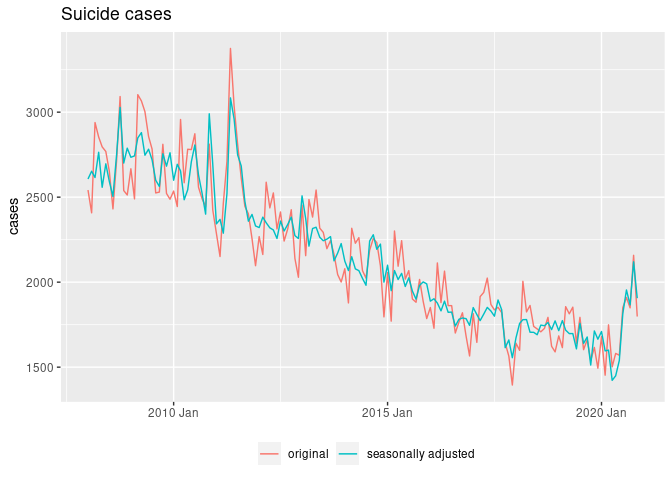
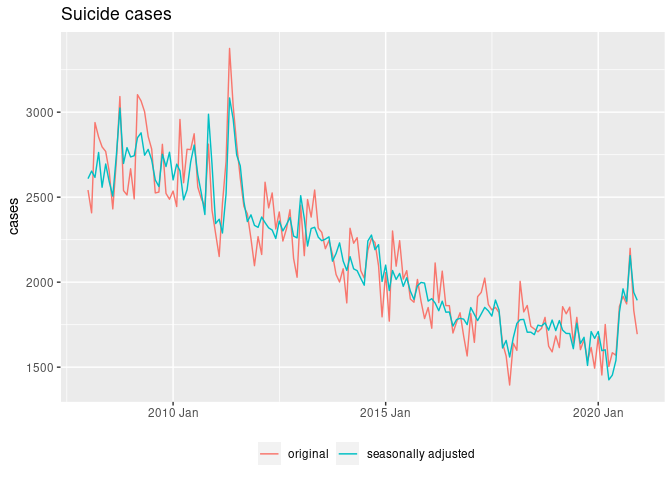
update December 2020

Changed region(s): [[0.1562, 0.125, 0.9688, 0.8125], [0.8438, 0.8438, 0.9375, 0.875], [0.5312, 0.8438, 0.625, 0.875]]

diff --git a/README.md b/README.md
@@ -10,7 +10,7 @@ Mitsuo Shiota
   - [Suicide cases are bouncing back, but not as fast as the program
     suggests](#suicide-cases-are-bouncing-back-but-not-as-fast-as-the-program-suggests)
 
-Updated: 2021-01-09
+Updated: 2021-01-22
 
 ## Motivation
 
@@ -54,8 +54,8 @@ head(npa_data)
 
 I watch the program again in [NHK plus site](https://plus.nhk.jp/),
 which requires registration, and replicate the chart below, though the
-original chart did not include November 2020. Look at the 2020 line, and
-find it exceeds the Mean (2017-2019) line since July.
+original chart did not include November and December 2020. Look at the
+2020 line, and find it exceeds the Mean (2017-2019) line since July.
 
 Yes, the 2020 line shows a rapid surge. But, why was it significantly
 below the Mean (2017-2019) line from April to June in the first place? I
@@ -75,9 +75,9 @@ original chart creator in the program, I know that the unemployed are
 more likely to commit suicide than the employed, and that unemployment
 rates are highly correlated with suicide cases.
 
-As Japan has been officially in recession since October 2018, [the
-unemployment rates](https://fred.stlouisfed.org/series/LRUN64TTJPM156S)
-hit the bottom in late 2019, and began to climb in 2020.
+As Japan has been officially in recession since October 2018, the
+unemployment rates hit the bottom in late 2019, and began to climb in
+2020.
 
 ![](README_files/figure-gfm/unemployment_chart-1.png)<!-- -->
 
